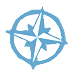
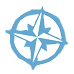
修复bug。

diff --git a/CuteSakikoModCode/Relics/Anon/Basic/AnonGuitar.cs b/CuteSakikoModCode/Relics/Anon/Basic/AnonGuitar.cs
@@ -242,25 +242,25 @@ namespace CuteSakikoMod.CuteSakikoModCode.Relics.Anon.Basic
                 return;
             }
             
-            // “意犹未尽”能力：若储存已满，自动演奏最早的和弦
-            var lingeringPower = Owner.Creature.GetPower<LingeringTastePower>();
-            if (lingeringPower != null)
+            // 意犹未尽：记录当前储存是否已满，若是则保留最早和弦的ID
+            var storedBefore = MusicNoteManager.GetStoredChords(Owner);
+            string? overflowChordId = null;
+            bool hasLingering = Owner.Creature.HasPower<LingeringTastePower>();
+            if (hasLingering && storedBefore.Count >= MusicNoteManager.MaxStoredChords && storedBefore.Count > 0)
             {
-                var storedChords = MusicNoteManager.GetStoredChords(Owner);
-                if (storedChords.Count >= MusicNoteManager.MaxStoredChords && storedChords.Count > 0)
-                {
-                    var firstChordId = storedChords[0]; // 最早加入的和弦
-                    if (ChordManager.AllChords.TryGetValue(firstChordId, out var def))
-                    {
-                        // 演奏该和弦，使用吉他当前的倍率
-                        await def.Effect(choiceContext, Owner.Creature, EffectMultiplier);
-                    }
-                    // 从储存队列中移除已演奏的和弦
-                    MusicNoteManager.RemoveChord(Owner, firstChordId);
-                }
+                overflowChordId = storedBefore[0]; // 最早加入的和弦
             }
 
             var newChords = MusicNoteManager.AddNote(Owner, cardPlay.Card.Type, _currentChords, _bonusChords.Concat(_temporaryChords));
+
+            // 意犹未尽：如果生成了新和弦且原本储存已满，则自动演奏溢出的和弦
+            if (newChords.Count > 0 && overflowChordId != null)
+            {
+                if (ChordManager.AllChords.TryGetValue(overflowChordId, out var overflowDef))
+                {
+                    await overflowDef.Effect(choiceContext, Owner.Creature, EffectMultiplier);
+                }
+            }
 
             bool hasAutoPlay = Owner.Creature.HasPower<PlayImmediatelyPower>();
             if (hasAutoPlay && newChords.Count > 0)

diff --git a/CuteSakikoModCode/Cards/Anon/Uncommon/StageJitters.cs b/CuteSakikoModCode/Cards/Anon/Uncommon/StageJitters.cs
@@ -14,18 +14,18 @@ namespace CuteSakikoMod.CuteSakikoModCode.Cards.Anon.Uncommon
         {
             get
             {
-                // 基础伤害：未升级15，升级后18
+                // 基础伤害（未升级15，升级后18）
                 yield return new CalculationBaseVar(15m);
-                // 每个音符/和弦降低的伤害值
+                // 每个储存的音符或和弦降低的伤害值（额外伤害）
                 yield return new ExtraDamageVar(2m);
-                // 最终计算后的伤害（实时显示）
+                // 动态计算最终伤害（支持染色）
                 yield return new CalculatedDamageVar(ValueProp.Move)
                     .WithMultiplier((card, _) =>
                     {
                         if (card.Owner == null) return 0m;
                         int noteCount = MusicNoteManager.GetCurrentNotes(card.Owner).Count;
                         int chordCount = MusicNoteManager.GetStoredChords(card.Owner).Count;
-                        // 每储存一个音符或和弦就降低2点伤害，倍率为负数
+                        // 倍率 = -(音符总数 + 和弦总数)，使伤害降低
                         return -(decimal)(noteCount + chordCount);
                     });
             }
@@ -36,9 +36,8 @@ namespace CuteSakikoMod.CuteSakikoModCode.Cards.Anon.Uncommon
             ArgumentNullException.ThrowIfNull(cardPlay.Target);
             TriggerBanter();
 
-            // 使用计算后的伤害值进行攻击
-            var damage = DynamicVars.CalculatedDamage;
-            await DamageCmd.Attack(damage)
+            // 使用计算后的伤害值（会自动应用染色和实时计算）
+            await DamageCmd.Attack(DynamicVars.CalculatedDamage)
                 .FromCard(this)
                 .Targeting(cardPlay.Target)
                 .WithHitFx("vfx/vfx_attack_slash")
@@ -47,7 +46,7 @@ namespace CuteSakikoMod.CuteSakikoModCode.Cards.Anon.Uncommon
 
         protected override void OnUpgrade()
         {
-            // 基础伤害提升 15 → 18
+            // 基础伤害 15 → 18
             DynamicVars.CalculationBase.UpgradeValueBy(3m);
         }
     }

diff --git a/CuteSakikoModCode/Relics/Saki/Event/Eggs.cs b/CuteSakikoModCode/Relics/Saki/Event/Eggs.cs
@@ -71,26 +71,29 @@ public sealed class Eggs : CuteSakikoModRelic
         var available = allEggCards.Where(c => !_gainedEggCards.Contains(c.Id)).ToList();
         if (available.Count == 0) return;
 
-        var prompt = new LocString("CUTESAKIKOMOD-EGGS.selectPrompt", "选择一张彩蛋牌");
+        // ✅ 修复：为每个可选卡牌创建带 Owner 的临时副本，确保选择界面可以正确获取 player
+        var tempCards = available.Select(can => player.RunState.CreateCard(can, player)).ToList();
+
+        var prompt = new LocString("relics", "CUTESAKIKOMOD-EGGS.selectPrompt");
         var prefs = new CardSelectorPrefs(prompt, 1);
         var choiceContext = new BlockingPlayerChoiceContext();
         var selectedCard = (await CardSelectCmd.FromSimpleGrid(
             choiceContext,
-            available,
+            tempCards,        // 现在每个卡牌都有 Owner
             player,
             prefs)).FirstOrDefault();
         if (selectedCard == null) return;
 
-        // 永久加入牌库
-        var permanentCard = player.RunState.CreateCard(selectedCard, player);
+        // 后续逻辑保持不变：根据选中卡牌的 ID 创建永久卡牌
+        var canonical = ModelDb.GetById<CardModel>(selectedCard.Id);
+        var permanentCard = player.RunState.CreateCard(canonical, player);
         await CardPileCmd.Add(permanentCard, PileType.Deck);
         EggCardGainedEvent.Trigger(permanentCard);
         CardCmd.Preview(permanentCard);
 
-        // 如果当前在战斗中，则生成一张临时复制加入手牌（用于本场战斗）
         if (player.Creature.CombatState != null)
         {
-            var tempCard = player.Creature.CombatState.CreateCard(selectedCard, player);
+            var tempCard = player.Creature.CombatState.CreateCard(canonical, player);
             if (permanentCard.IsUpgraded && tempCard.IsUpgradable)
                 CardCmd.Upgrade(tempCard);
             await CardPileCmd.AddGeneratedCardToCombat(tempCard, PileType.Hand, player);

diff --git a/CuteSakikoModCode/Systems/MusicNoteManager.cs b/CuteSakikoModCode/Systems/MusicNoteManager.cs
@@ -168,11 +168,12 @@ namespace CuteSakikoMod.CuteSakikoModCode.Systems
 
         public static void ClearCombatData(Player player)
         {
-            if (player == null) return;
             if (_data.TryGetValue(player, out var data))
             {
                 data.Notes.Clear();
                 data.StoredChords.Clear();
+                data.NotesGainedThisTurn = 0;   // 重置音符计数
+                data.LastRoundNumber = 0;      // 重置回合编号
             }
         }
 